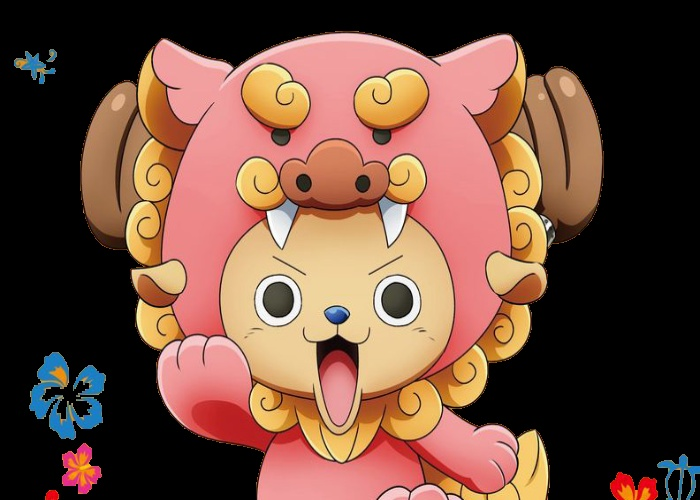
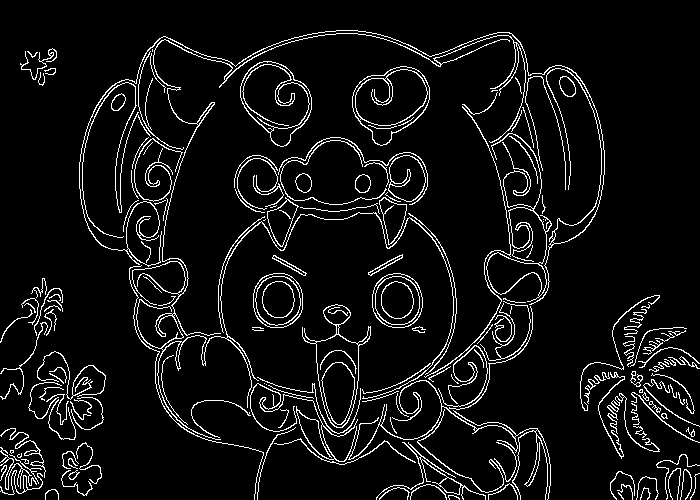
func 3 complete

diff --git a/main.py b/main.py
@@ -36,8 +36,13 @@ def removeBackground(img):
 
 # func 3 edge detection
 def edgeDetection(img):
+    gray = cv2.cvtColor(img, cv2.COLOR_BGR2GRAY)
 
-    pass
+    blurred = cv2.GaussianBlur(gray, (5, 5), 0)
+    
+    result = cv2.Canny(blurred, 50, 150)
+    
+    return result
 
 
 def run_watermark():
@@ -87,4 +92,4 @@ def main(mode):
 
 
 if __name__ == "__main__":
-    main(mode=2)
+    main(mode=3)

diff --git a/test_main.py b/test_main.py
@@ -27,8 +27,10 @@ def test_removeBackground():
 
 
 def test_edgeDetection():
+    test_img = np.ones((500, 700, 3), dtype=np.uint8) * 100
     result = m.edgeDetection(np.zeros((500, 700, 3), dtype=np.uint8))
-    assert result is None, "edgeDetection failed"
+
+    assert not np.array_equal(result, test_img), "edgeDetection failed"
     print("test_edgeDetection successed")
 
 
